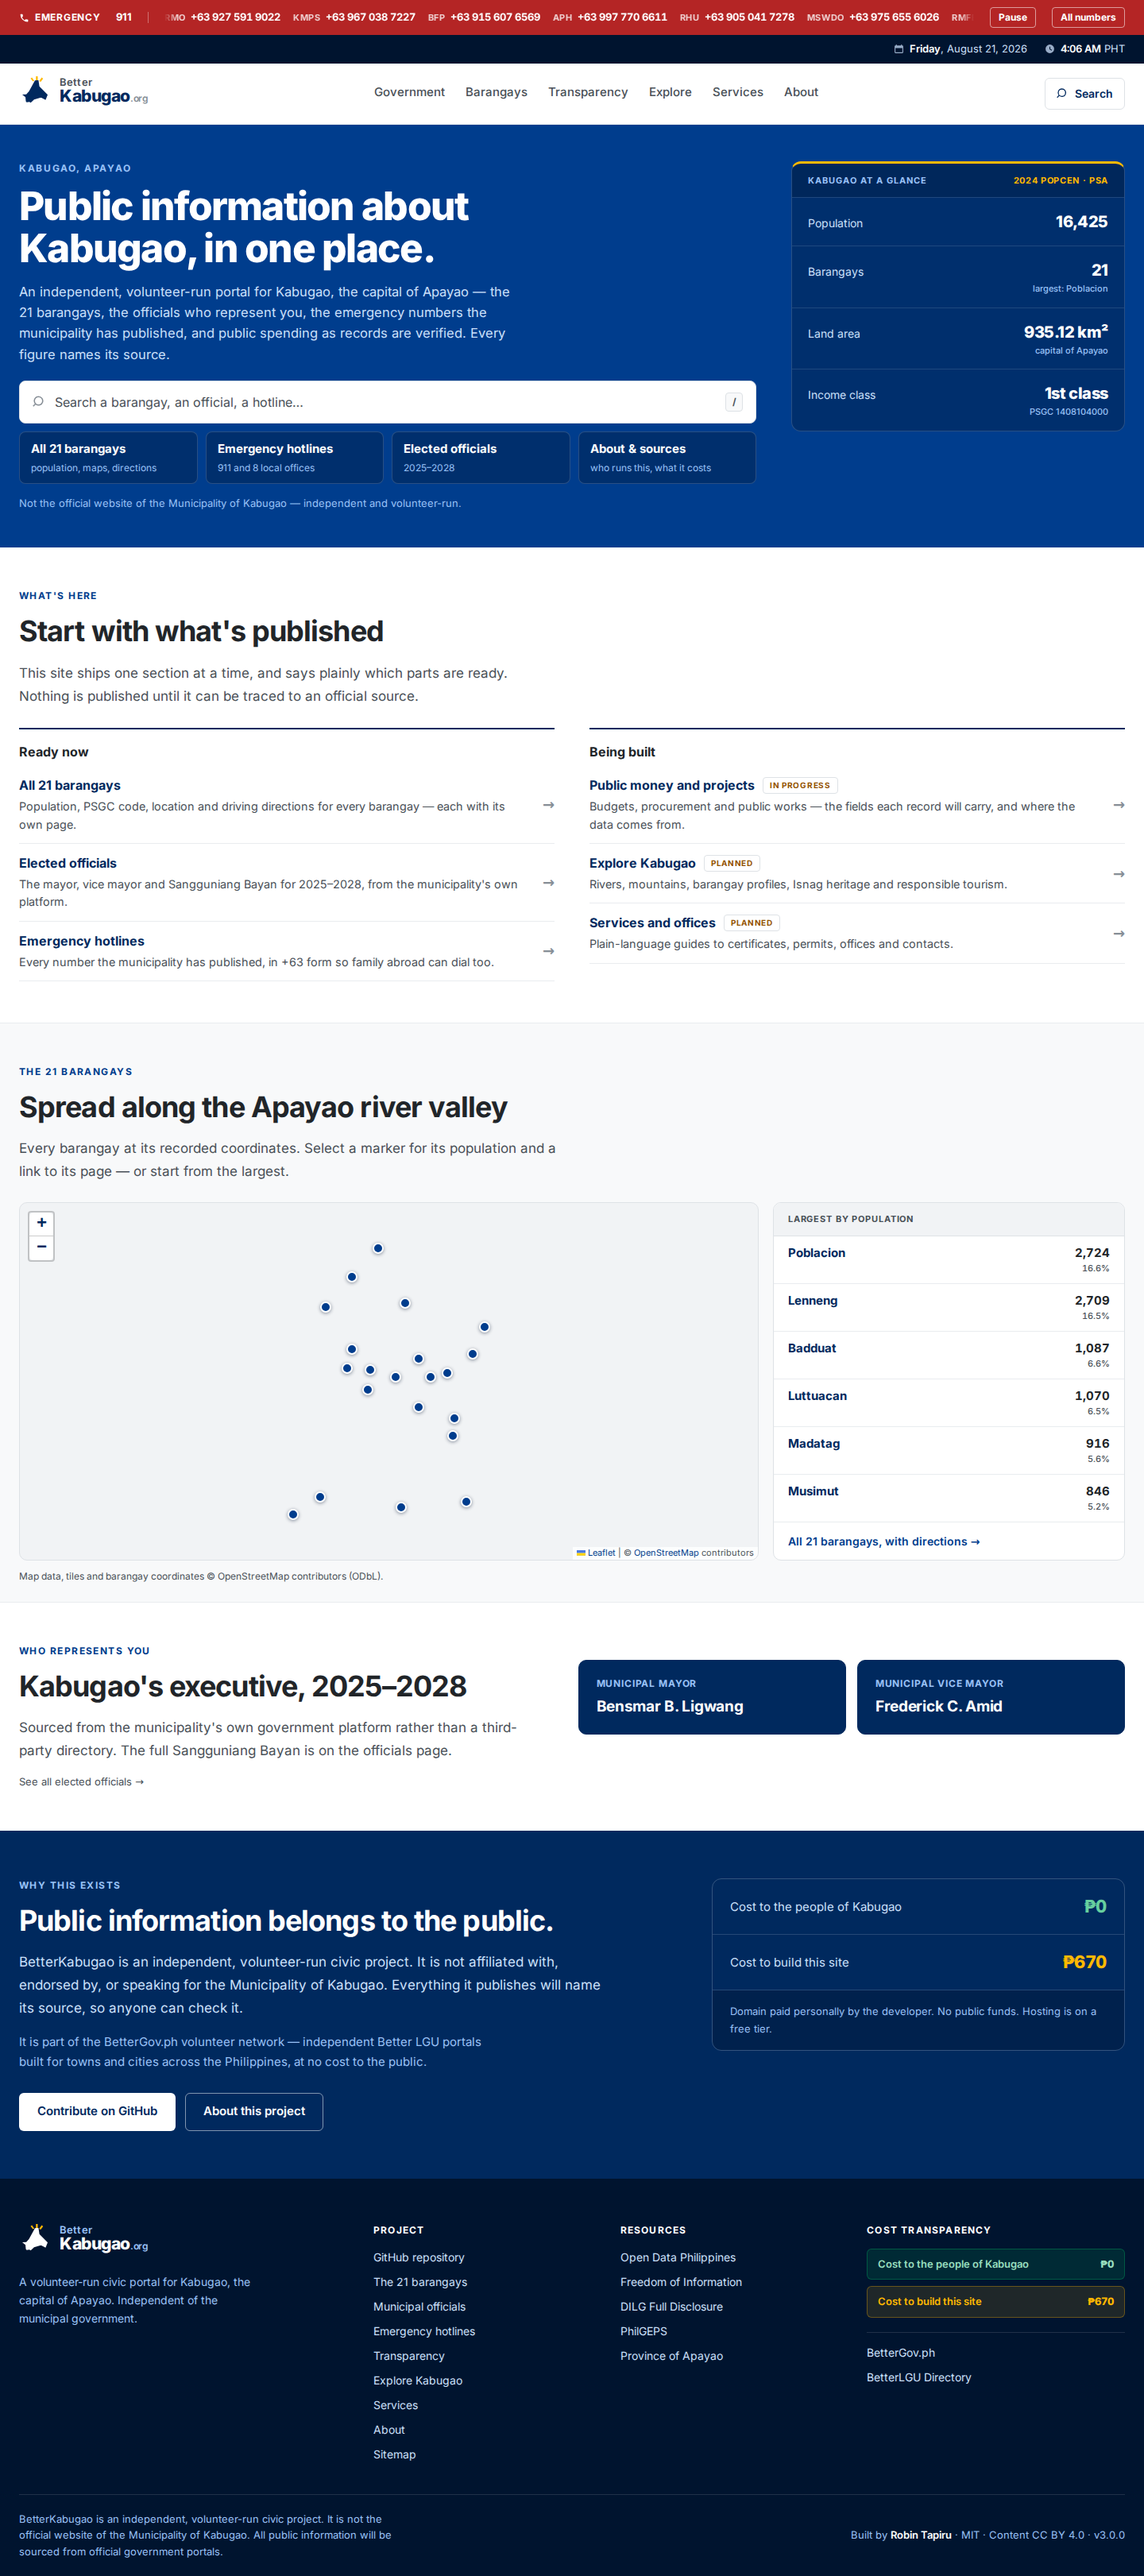
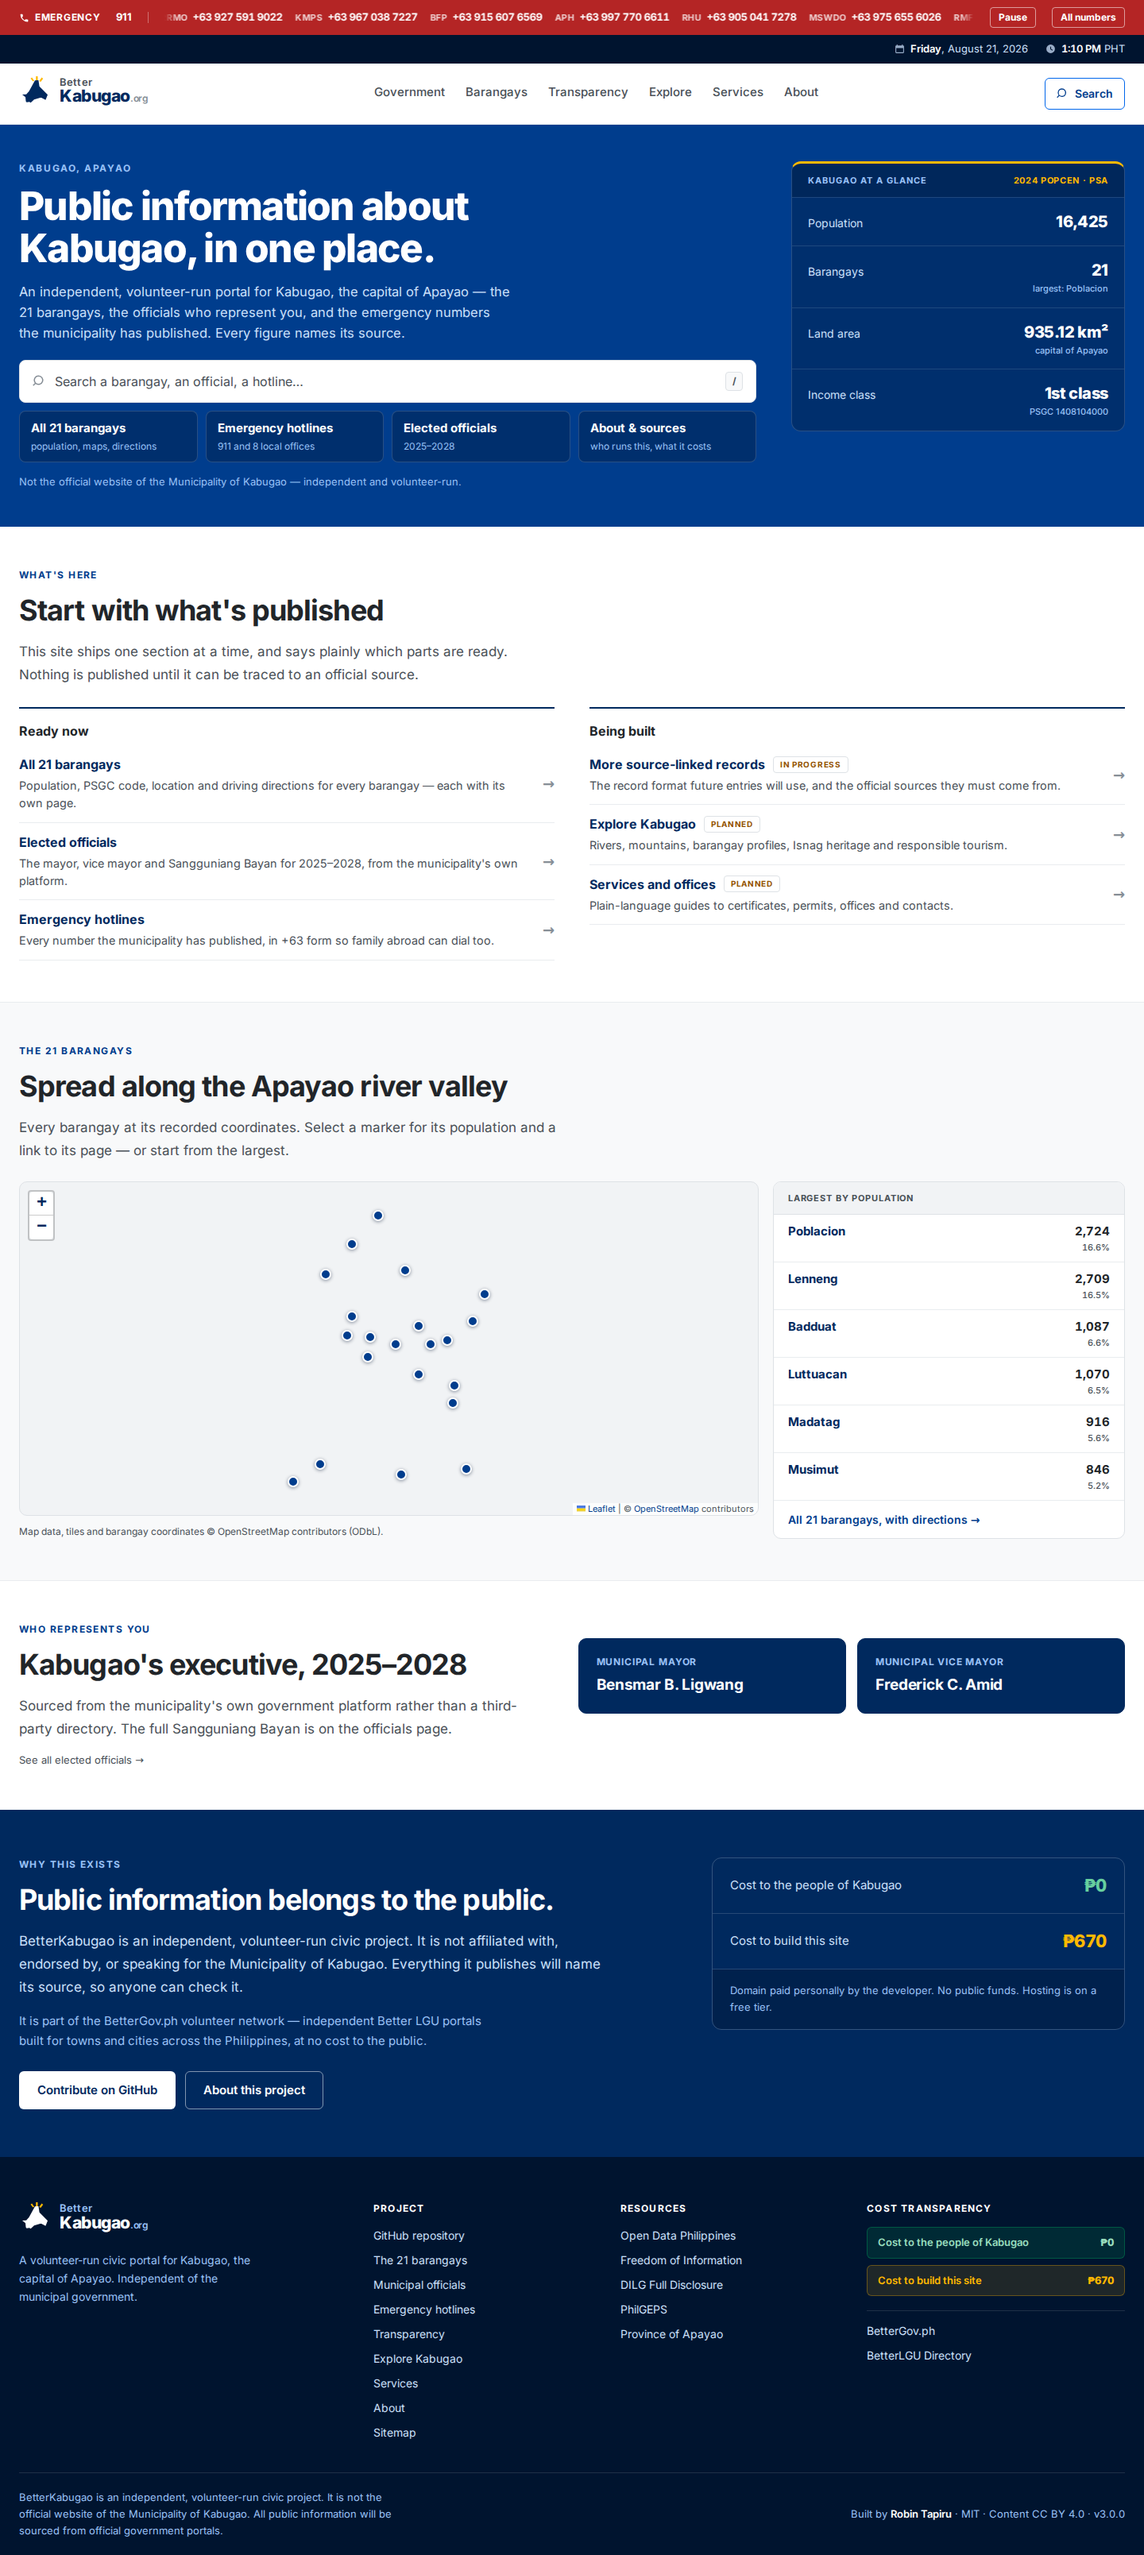
fix: clear Codex's three QA blockers on the homepage experiment
Still experiment only, not approved for main. 1) Mobile map/attribution/panel collision: height 100 percent on the map canvas measured the whole map box, so the OpenStreetMap attribution overflowed its parent onto the population panel header. The map is a flex column now; measured +18px clearance at 320, 390 and 768. 2) Search Escape did not close the overlay. Chrome's input type=search consumes the first Escape to clear its own value, so the native dialog cancel never fired. My earlier check pressed Escape on an empty field, where there is nothing to clear, so it passed while the real path was broken. Reproduced with a typed query, then fixed by taking Escape over explicitly on the dialog element. Verified on four paths: empty, partial, full query, and from a focused result. 3) Sensitive copy removed: the hero lede no longer mentions public spending and the ledger row is now More source-linked records. Two contract tests added so none of this regresses quietly. Gates: 37 contract + 45 unit tests, typecheck, lint, PRERENDER_OK 33 pages. Browser at 320/390/768/1280/1440: no overflow, one h1, one main, no map/list overlap, no console errors.

diff --git a/src/pages/HomePage.tsx b/src/pages/HomePage.tsx
@@ -48,8 +48,8 @@ const BUILDING = [
   {
     to: "/transparency",
     tag: "In progress",
-    title: "Public money and projects",
-    body: "Budgets, procurement and public works — the fields each record will carry, and where the data comes from.",
+    title: "More source-linked records",
+    body: "The record format future entries will use, and the official sources they must come from.",
   },
   {
     to: "/explore",
@@ -78,9 +78,8 @@ export function HomePage() {
             <h1 id="home-title">Public information about Kabugao, in one place.</h1>
             <p className="home-hero__lede">
               An independent, volunteer-run portal for Kabugao, the capital of Apayao — the{" "}
-              {BARANGAYS.length} barangays, the officials who represent you, the emergency numbers
-              the municipality has published, and public spending as records are verified. Every
-              figure names its source.
+              {BARANGAYS.length} barangays, the officials who represent you, and the emergency
+              numbers the municipality has published. Every figure names its source.
             </p>
 
             <div className="home-hero__search">

diff --git a/src/styles.css b/src/styles.css
@@ -812,10 +812,12 @@ a:focus-visible, button:focus-visible { outline: 3px solid var(--color-primary-5
 /* ---------------- Home: map with its data beside it ---------------- */
 
 .home-map { display: grid; grid-template-columns: minmax(0, 2.1fr) minmax(0, 1fr); gap: 18px; align-items: stretch; margin-top: 24px; }
-.home-map .map { margin-top: 0; }
-/* The map matches its panel: title + six rows + footer, not a fixed 460px. */
-.home-map .map--tall .map__canvas { height: 100%; min-height: 380px; }
-.home-map .map__fallback { height: 100%; }
+/* A flex column, so the OpenStreetMap attribution keeps its own space instead
+   of overflowing the map box and colliding with the panel below it on mobile. */
+.home-map .map { display: flex; flex-direction: column; margin-top: 0; }
+/* The map fills what the panel leaves, rather than a fixed 460px. */
+.home-map .map--tall .map__canvas { flex: 1; height: auto; min-height: 380px; }
+.home-map .map__note { flex: none; }
 .home-bgy { display: flex; flex-direction: column; background: var(--color-white); border: 1px solid var(--color-gray-300); border-radius: 10px; overflow: hidden; }
 .home-bgy__list { flex: 1; }
 .home-bgy__title {

diff --git a/src/components/SearchOverlay.tsx b/src/components/SearchOverlay.tsx
@@ -156,6 +156,14 @@ export function SearchOverlay() {
       className="palette"
       aria-label="Search BetterKabugao"
       onClick={() => dialog.current?.close()}
+      onKeyDown={(event) => {
+        if (event.key !== "Escape") return;
+        // `<input type="search">` eats the first Escape to clear itself, so the
+        // native dialog cancel never fires and the overlay stays open with a
+        // query typed. Take Escape over explicitly, from anywhere inside.
+        event.preventDefault();
+        dialog.current?.close();
+      }}
     >
       {/* The backdrop is the dialog element itself, so a click that lands on
           the panel must not bubble up and close it. */}

diff --git a/docs/qa/modern-civic-homepage-experiment/QA-NOTE.md b/docs/qa/modern-civic-homepage-experiment/QA-NOTE.md
@@ -40,8 +40,11 @@ same data, same routes. The change is hierarchy and presentation.
 
 - 320 / 390 / 768 / 1280 / 1440: `scrollWidth === clientWidth` at every width.
 - One `h1`, one `main` at every width.
-- Search opens from the hero trigger **and** the masthead on the redesigned
-  page; Escape still returns focus.
+- Search opens from the hero trigger **and** the masthead. Escape closes the
+  overlay and returns focus to the trigger with the field **empty, partially
+  typed, fully typed, and from a focused result** — all four paths, because the
+  first revision only tested the empty one and that is exactly how the bug
+  shipped past me.
 - Red emergency bar visible at every width.
 - All 14 unique internal links on the page return HTTP 200 from the
   prerendered output — no dead destinations.
@@ -77,14 +80,44 @@ same data, same routes. The change is hierarchy and presentation.
   close inside one 1440×900 viewport, and the desk went 4-across on desktop.
   Full page height dropped from 3,757px to 3,242px at 1440.
 
+## Revision 2 — Codex QA blockers, all three fixed
+
+**1. Mobile map / attribution / panel collision.** Confirmed and fixed. Cause
+was mine: `height: 100%` on `.map__canvas` measured the whole `.map` box, so the
+OpenStreetMap attribution line below the canvas overflowed past its parent and
+landed on the "Largest by population" header. `.map` is now a flex column, so
+the attribution keeps its own space and the canvas takes what is left.
+Measured — attribution bottom to panel top: **+18px at 320, 390 and 768**;
+side-by-side above 1024 as designed.
+
+**2. Search Escape did not close.** Codex was right and my earlier verification
+was inadequate. Root cause: Chrome's `<input type="search">` consumes the first
+Escape to clear its own value, so the native `<dialog>` cancel never fires. My
+sandbox check pressed Escape on an **empty** field, where there is nothing to
+clear, so the event reached the dialog and the test passed. Reproduced exactly
+before fixing: with `poblacion` typed, the first Escape emptied the field and
+left `open: true`; a second Escape closed it. Fixed by taking Escape over
+explicitly on the dialog element, which covers the input, the results, the
+chips and the close button. Now passes on all four paths, and a contract test
+pins the handler.
+
+**3. Sensitive homepage copy.** Removed. The hero lede no longer mentions public
+spending; the ledger row is now "More source-linked records" with the body "The
+record format future entries will use, and the official sources they must come
+from." A new contract test fails the build if *budget*, *procurement*, *public
+works*, *flood control*, *contractor* or *public spending* reappears in
+`HomePage.tsx`. Verified against the rendered `<main>` text, not just the
+source: **zero** forbidden terms.
+
+Kept exactly as Codex asked: search-first hero, four front-desk actions,
+at-a-glance registry card, Ready now / Being built ledgers, desktop map with
+data beside it, navy-blue-gold identity.
+
 ## Risks / reasons Codex might reject
 
 - The hero says "21" three times in one viewport (lede prose, chip label,
   record card row). Each does a different job (reading / navigation /
   scanning), which the anti-slop table allows, but it is a judgement call.
-- "Public spending as records are verified" in the lede is a promise of
-  future content. It names no figure and matches the transparency page's own
-  framing, but if it reads as over-promising, cut the clause.
 - The desk chips use `rgba` surfaces on navy (same treatment as the record
   card) — if Codex wants flat tokens only, swap to `--color-primary-800`.
 - `React error #418` (open, pre-existing) is unaffected here but still

diff --git a/docs/sessions/2026-08-21-homepage-experiment.md b/docs/sessions/2026-08-21-homepage-experiment.md
@@ -43,6 +43,27 @@ opens from hero and masthead, red bar visible, all 13 internal links return
 handoff. **Not verified:** Cloudflare preview (appears only after Robin
 pushes) and the open #418 report from Codex's machine (unaffected either way).
 
+## Revision 2 (same day) — Codex QA said REVISION NEEDED
+
+Three blockers, all fixed on the same branch and re-verified:
+
+1. **Mobile collision.** `height: 100%` on the map canvas pushed the OSM
+   attribution past its parent onto the population panel header. `.map` is now a
+   flex column. Measured +18px clearance at 320/390/768.
+2. **Escape did not close the search overlay.** Chrome's `<input type="search">`
+   consumes the first Escape to clear itself, so the native dialog cancel never
+   fired. My earlier check pressed Escape on an **empty** field and passed —
+   the blind spot that let it ship. Reproduced with a typed query, then fixed by
+   handling Escape on the dialog explicitly. Verified on four paths: empty,
+   partial, full query, and from a focused result.
+3. **Sensitive copy.** "Public spending" is out of the hero lede; the ledger row
+   is now "More source-linked records". A contract test fails the build if
+   budget / procurement / public works / flood control / contractor / public
+   spending reappears in `HomePage.tsx`.
+
+Gates after the revision: **37 contract + 45 unit tests**, typecheck, lint,
+`PRERENDER_OK 33 pages`. Screenshots regenerated at all four widths.
+
 ## Open threads
 
 - Codex verdict on the direction; the QA note lists the likely objections.

diff --git a/docs/START-HERE.md b/docs/START-HERE.md
@@ -449,6 +449,17 @@ render.
   Correct for one document and one overlay, but a test that opens it leaks into
   the next: `src/App.test.tsx` calls `closeSearchOverlay()` in `afterEach`, and
   again inside any loop that re-renders.
+- **`<input type="search">` eats the first Escape.** Chrome clears the field
+  instead of letting the event reach the enclosing `<dialog>`, so a search
+  overlay stays open on the first press when a query is typed. The overlay now
+  handles Escape explicitly. **Test it with text in the field** — pressing
+  Escape on an empty input passes while the real path is broken, which is
+  exactly how this shipped past a green sandbox check and was caught by Codex
+  in live QA.
+- **`height: 100%` on a child whose parent has siblings below it overflows.**
+  `.map__canvas` at `height: 100%` measured the whole `.map` box, so the
+  attribution line beneath it spilled past the parent and collided with the next
+  panel on mobile. Use a flex column and let the canvas take the remainder.
 - **A `/`-shortcut test must wait for hydration.** The key listener is attached
   on hydration, not on `DOMContentLoaded`. Pressing `/` immediately after
   `page.goto` does nothing and looks exactly like a broken shortcut.

diff --git a/docs/CONTEXT.md b/docs/CONTEXT.md
@@ -29,8 +29,12 @@ session (see `docs/skills/session-memory/SKILL.md`).
   homepage-only design test ("front desk" hero with four destination chips,
   registry-style record card, two ledgers instead of the six-card wall, map
   with a top-5 panel). Screenshots and self-scores in
-  `docs/qa/modern-civic-homepage-experiment/`. Lives or dies by Robin's and
-  Codex's review; the live homepage is unchanged.
+  `docs/qa/modern-civic-homepage-experiment/`. **Revision 2** answered Codex's
+  three QA blockers: the mobile map/attribution collision, Escape not closing
+  the search overlay when a query was typed (Chrome's `<input type="search">`
+  eats the first Escape), and money/public-works wording on the homepage — the
+  last now pinned by a contract test. Lives or dies by Robin's and Codex's
+  review; the live homepage is unchanged.
 - **BetterLGU Directory:** PR #208 open against `jmacj/better-lgu-directory` —
   Kabugao row updated to 🟢 Active with the domain and the three socials, PR body
   and checklist completed, and a comment answering the triage bot's four
